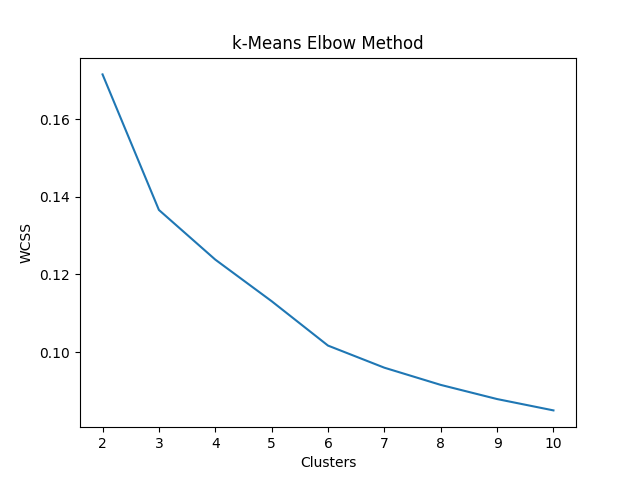
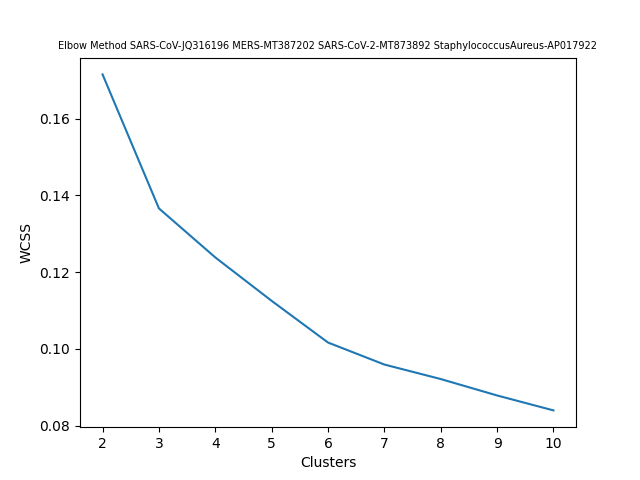
Updated k-Means. Cleaner code and output aesthetics

diff --git a/Clustering.py b/Clustering.py
@@ -120,7 +120,7 @@ def kmeans(data, labels, genome_names):
         wcss.append(km.inertia_)  # sum of distance-squared, per cluster
 
     plt.plot(range(2, 11), wcss)
-    plt.title('k-Means Elbow Method')
+    plt.title('Elbow Method ' + str_names.replace('_', ' '), size=7)
     plt.xlabel('Clusters')
     plt.ylabel('WCSS')
     plt.savefig('data/Cluster Analysis/k-Means/ElbowMethod_' + str_names + '.png')
@@ -137,6 +137,7 @@ def kmeans(data, labels, genome_names):
     seaborn_scatterplot("k-Means", km_results, labels, genome_names)
 
     # Centroid Clustering
+    plt.title('k-Means Centroids ' + str_names.replace('_', ' '), size=7)
     plt.scatter(data[:, 0], data[:, 1])
     plt.scatter(km.cluster_centers_[:, 0], km.cluster_centers_[:, 1], s=100, c='red')
     plt.savefig('data/Cluster Analysis/k-Means/Centroids_' + str_names + '.png')
@@ -162,6 +163,6 @@ def run(n_reads, *names):
     data = data[n_reads:, :]  # first 'n_reads' rows are empty (so as to establish a shape for appending)
     labels = np.array(labels)
 
-    #principal_component_analysis(data, labels, genome_names)
-    #tsne(data, labels, genome_names)
+    principal_component_analysis(data, labels, genome_names)
+    tsne(data, labels, genome_names)
     kmeans(data, labels, genome_names)
